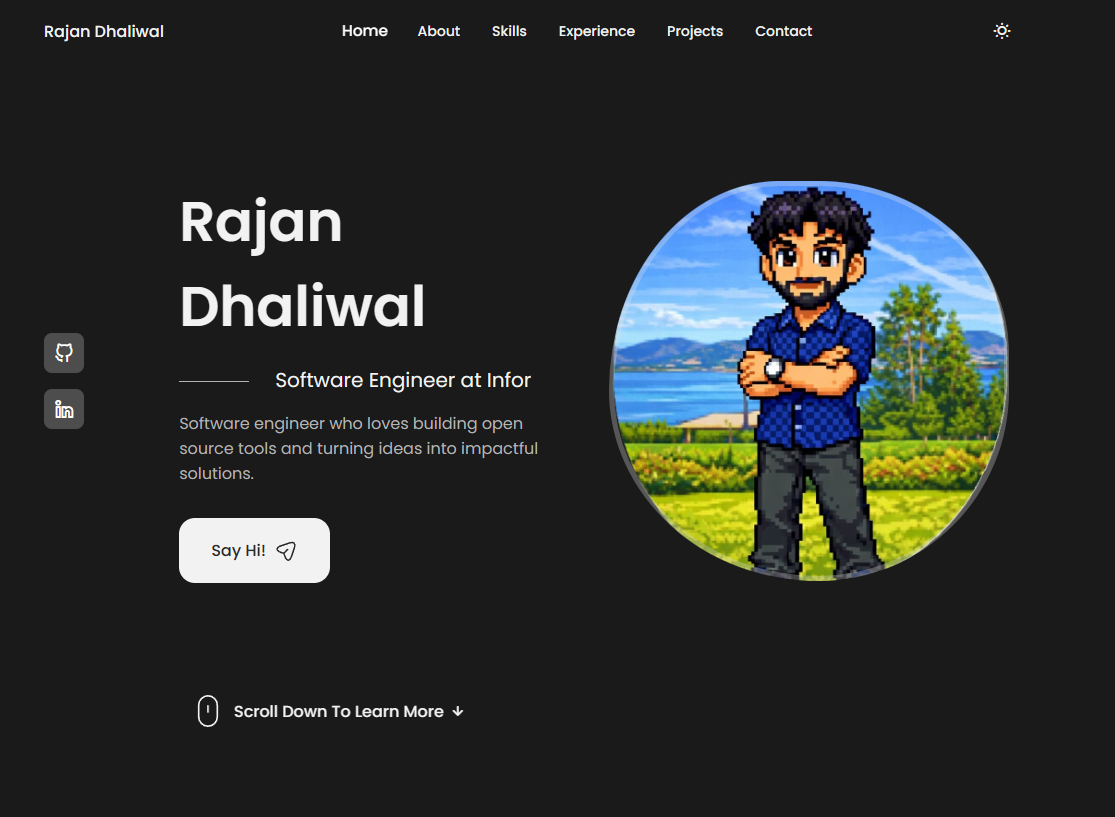
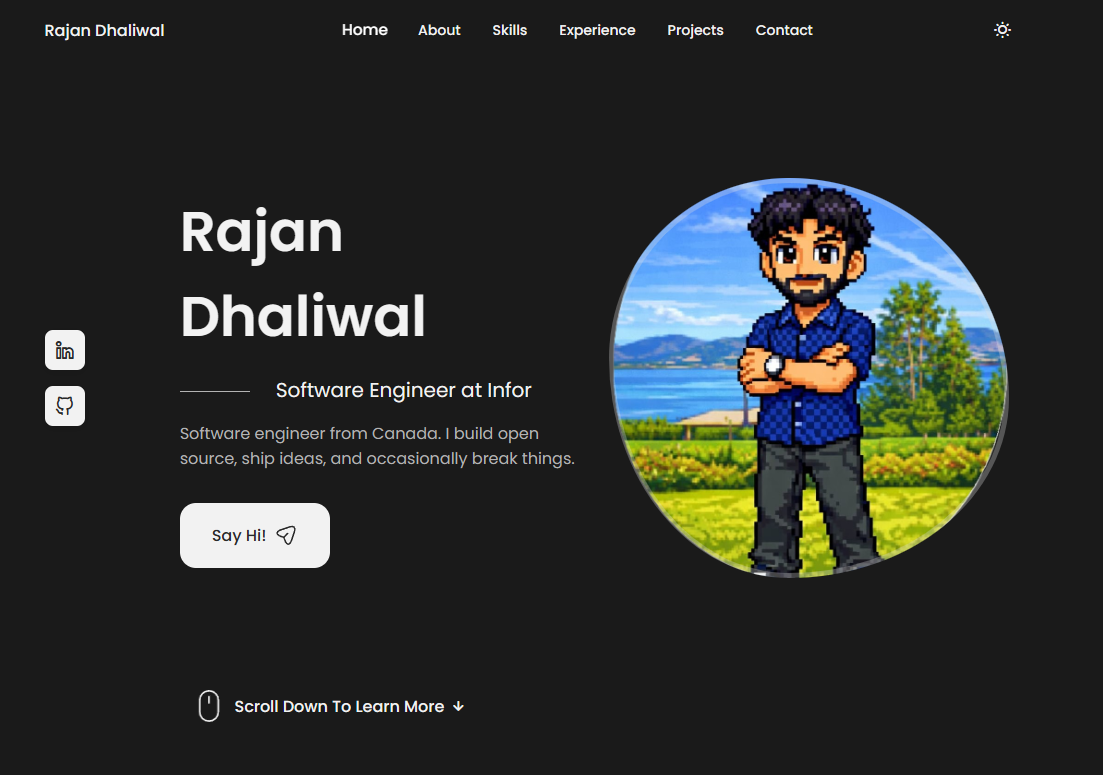
fixes blob animation and dark mode

diff --git a/src/components/header/Header.jsx b/src/components/header/Header.jsx
@@ -24,7 +24,12 @@ const Header = () => {
   /*=============== Dark Mode ===============*/
   const [darkMode, setDarkMode] = useState(() => {
     const saved = localStorage.getItem("darkMode");
-    return saved === "true";
+    // If user has manually set a preference, use it
+    if (saved !== null) {
+      return saved === "true";
+    }
+    // Otherwise, detect system preference
+    return window.matchMedia("(prefers-color-scheme: dark)").matches;
   });
 
   useEffect(() => {

diff --git a/src/components/home/home.css b/src/components/home/home.css
@@ -107,15 +107,15 @@
 
 @keyframes profile__animate {
   0% {
-    border-radius: 60% 40% 30% 70%/60% 30% 70% 40%;
+    border-radius: 55% 45% 45% 55%/55% 45% 55% 45%;
   }
 
   50% {
-    border-radius: 30% 60% 70% 40%/50% 60% 30% 60%;
+    border-radius: 45% 55% 55% 45%/45% 55% 45% 55%;
   }
 
   100% {
-    border-radius: 60% 40% 30% 70%/60% 30% 70% 40%;
+    border-radius: 55% 45% 45% 55%/55% 45% 55% 45%;
   }
 }
 
